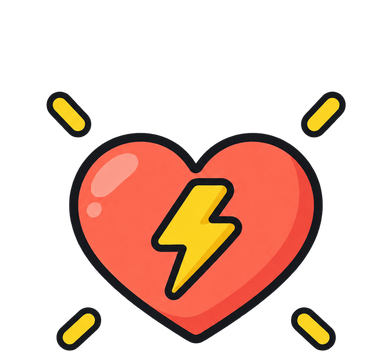
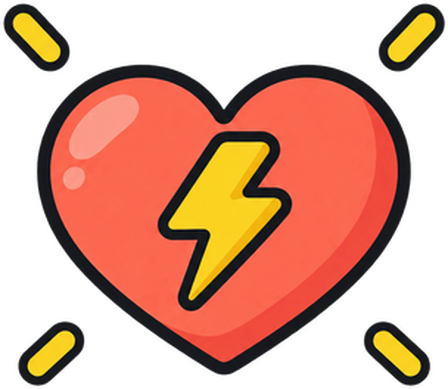
fix: heart centring, logarithmic sliders, and a board you can read
**The heart sat low with a stray spark above it.** Trimming to the full bounding
box included the faint spark tips, which sit mostly above the heart, so the solid
mass ended up at 63% down the frame. Re-centred on the SOLID mass instead, and
enlarged: the ring went 132 to 168 and the art 96 to 130, because there was dead
space above it and that mark is the point of the screen.

**Only one slider felt right, and the reason is that resistance is
ratiometric.** Doubling matters the same amount at 500 ohms as at 50k, so a
linear track over a 100x range spends almost all its travel where nothing
visible changes. On the divider, linear moved the midpoint 1.38V across the last
three quarters of the track; logarithmic moves it 3.45V, and the useful values
are spread evenly instead of crammed into the first fifth. All five controls are
resistances, so all five are log now.

**The breadboard could not be read.** Row letters and column numbers were painted
at 0x5c6068 and roughly the size a real board prints them, which works at 30cm
with two eyes and does not work as a handful of texels on a surface seen at an
angle on a phone. Near-black now, and half again larger, along with the rail
polarity marks. There was no way to tell which lane you were placing into.

Claude-Session: https://claude.ai/code/session_01VktW16TST1KkgfptudESST

diff --git a/mobile/src/sim/circuits.ts b/mobile/src/sim/circuits.ts
@@ -14,6 +14,13 @@ import type { Comp } from './engine';
 
 export interface LiveControl {
   label: string;
+  /**
+   * How travel maps to value. Resistance is ratiometric, so LOG is the honest
+   * default: doubling matters the same amount whether you are at 500 ohms or
+   * 50k. Mapped linearly, a 500 to 47k divider put every useful value in the
+   * first fifth of the track and left the rest doing nothing you could see.
+   */
+  scale?: 'linear' | 'log';
   /** Displayed after the value. */
   unit: string;
   min: number;
@@ -51,7 +58,7 @@ export const LIVE_CIRCUITS: LiveCircuitDef[] = [
     title: 'LED with a series resistor',
     blurb: 'One loop: a 9V battery, a resistor, an LED.',
     prompt: 'Turn the resistor up and watch the current fall. Below about 220 ohms the LED is being pushed past what it can take.',
-    control: { label: 'Resistor', unit: 'Ω', min: 47, max: 4700, step: 1, initial: 220, format: ohms },
+    control: { label: 'Resistor', unit: 'Ω', min: 47, max: 4700, step: 1, initial: 220, scale: 'log', format: ohms },
     build: (r) => [
       { kind: 'V', id: 'bat', pos: 1, neg: 0, value: 9 },
       { kind: 'R', id: 'r1', a: 1, b: 2, value: r },
@@ -69,7 +76,7 @@ export const LIVE_CIRCUITS: LiveCircuitDef[] = [
     title: 'Voltage divider',
     blurb: 'Two resistors across 5V. The midpoint is what a sensor pin reads.',
     prompt: 'This is how every analog sensor works. Move the lower resistor and watch the midpoint move with it.',
-    control: { label: 'Lower resistor', unit: 'Ω', min: 500, max: 47000, step: 100, initial: 10000, format: ohms },
+    control: { label: 'Lower resistor', unit: 'Ω', min: 500, max: 47000, step: 10, initial: 10000, scale: 'log', format: ohms },
     build: (r2) => [
       { kind: 'V', id: 'src', pos: 1, neg: 0, value: 5 },
       { kind: 'R', id: 'r1', a: 1, b: 2, value: 10000 },
@@ -86,7 +93,7 @@ export const LIVE_CIRCUITS: LiveCircuitDef[] = [
     title: 'Two branches in parallel',
     blurb: 'Same voltage across both. The smaller resistor takes the bigger share.',
     prompt: 'Change one branch and watch the other stay exactly where it was. That independence is what parallel means.',
-    control: { label: 'Second branch', unit: 'Ω', min: 220, max: 10000, step: 10, initial: 2000, format: ohms },
+    control: { label: 'Second branch', unit: 'Ω', min: 220, max: 10000, step: 10, initial: 2000, scale: 'log', format: ohms },
     build: (r2) => [
       { kind: 'V', id: 'src', pos: 1, neg: 0, value: 9 },
       { kind: 'R', id: 'r1', a: 1, b: 0, value: 1000 },
@@ -103,7 +110,7 @@ export const LIVE_CIRCUITS: LiveCircuitDef[] = [
     title: 'RC charging',
     blurb: 'A capacitor filling through a resistor. This is where time comes from.',
     prompt: 'Watch the voltage climb, fast at first and then slower. Raise the resistor and the whole thing stretches out.',
-    control: { label: 'Resistor', unit: 'Ω', min: 1000, max: 100000, step: 1000, initial: 10000, format: ohms },
+    control: { label: 'Resistor', unit: 'Ω', min: 1000, max: 100000, step: 10, initial: 10000, scale: 'log', format: ohms },
     build: (r) => [
       { kind: 'V', id: 'src', pos: 1, neg: 0, value: 5 },
       { kind: 'R', id: 'r', a: 1, b: 2, value: r },
@@ -121,7 +128,7 @@ export const LIVE_CIRCUITS: LiveCircuitDef[] = [
     title: 'Transistor as a switch',
     blurb: 'A small base current lets a much larger one through the LED.',
     prompt: 'Raise the base resistor until the transistor stops saturating. The LED does not dim gently, it gives up.',
-    control: { label: 'Base resistor', unit: 'Ω', min: 1000, max: 470000, step: 1000, initial: 10000, format: ohms },
+    control: { label: 'Base resistor', unit: 'Ω', min: 1000, max: 470000, step: 10, initial: 10000, scale: 'log', format: ohms },
     build: (rb) => [
       { kind: 'V', id: 'vcc', pos: 1, neg: 0, value: 5 },
       { kind: 'V', id: 'sig', pos: 4, neg: 0, value: 5 },

diff --git a/mobile/src/components/sandbox3d/geometry/breadboard.ts b/mobile/src/components/sandbox3d/geometry/breadboard.ts
@@ -42,7 +42,12 @@ const GROOVE_DARK: Rgba = rgb(0xc9c6bd);
 // would land.
 const HOLE_RING: Rgba = rgb(0x6f6d66);
 const HOLE_DARK: Rgba = rgb(0x25272b);
-const PRINT: Rgba = rgb(0x5c6068);
+// Near-black, and the labels below are half again larger than a real board's.
+// A physical breadboard prints its row letters at about 2mm and you read them
+// from 30cm with both eyes. Here they are a handful of texels on a surface seen
+// at an angle on a phone, and at 0x5c6068 they were not legible at all: there
+// was no way to tell which lane you were placing into.
+const PRINT: Rgba = rgb(0x2b2f36);
 const RED_LINE: Rgba = rgb(0xd6402f);
 const BLUE_LINE: Rgba = rgb(0x2f6fd0);
 
@@ -77,7 +82,7 @@ export function paintBreadboard(): THREE.DataTexture {
     const z = railStripeZ(rail.id);
     p.rect(0, z, TOP_W - 0.34, 0.012, colour);
     for (const end of [-1, 1]) {
-      p.text(rail.polarity, end * (TOP_W / 2 - 0.09), rail.z, 0.075, colour);
+      p.text(rail.polarity, end * (TOP_W / 2 - 0.095), rail.z, 0.105, colour);
     }
   }
 
@@ -103,8 +108,8 @@ export function paintBreadboard(): THREE.DataTexture {
     const label = String(printed);
     // Between row a and the rail's printed line, which is where a real board
     // puts them. Any further out and they collide with the rail stripe.
-    p.text(label, columnX(col), rowZ(0) - 0.062, 0.055, PRINT);
-    p.text(label, columnX(col), rowZ(ROWS - 1) + 0.062, 0.055, PRINT);
+    p.text(label, columnX(col), rowZ(0) - 0.068, 0.078, PRINT);
+    p.text(label, columnX(col), rowZ(ROWS - 1) + 0.068, 0.078, PRINT);
   }
 
   // Row letters at both ends.
@@ -112,8 +117,8 @@ export function paintBreadboard(): THREE.DataTexture {
     const letter = ROW_LETTERS[row];
     // Hard against the edge, because the 63 columns leave only 0.15 inch of
     // margin and that is exactly how tight it is on the real board too.
-    p.text(letter, -TOP_W / 2 + 0.045, rowZ(row), 0.046, PRINT);
-    p.text(letter, TOP_W / 2 - 0.045, rowZ(row), 0.046, PRINT);
+    p.text(letter, -TOP_W / 2 + 0.050, rowZ(row), 0.068, PRINT);
+    p.text(letter, TOP_W / 2 - 0.050, rowZ(row), 0.068, PRINT);
   }
 
   return p.texture();

diff --git a/mobile/src/components/sim/CircuitTab.tsx b/mobile/src/components/sim/CircuitTab.tsx
@@ -26,8 +26,9 @@ import { elevation } from '../../theme/elevation';
  */
 const Knob: React.FC<{
   min: number; max: number; step: number; value: number;
+  scale: 'linear' | 'log';
   onChange: (v: number) => void;
-}> = ({ min, max, step, value, onChange }) => {
+}> = ({ min, max, step, value, scale, onChange }) => {
   // Refusing the responder is not enough: UIScrollView competes below the JS
   // responder system, so the page scrolled while the knob also moved.
   const { setLocked } = useScrollLock();
@@ -55,7 +56,9 @@ const Knob: React.FC<{
   const setFromX = (pageX: number) => {
     if (width.current <= 0) return;
     const frac = Math.min(1, Math.max(0, (pageX - originX.current) / width.current));
-    const raw = min + frac * (max - min);
+    const raw = scale === 'log'
+      ? Math.exp(Math.log(min) + frac * (Math.log(max) - Math.log(min)))
+      : min + frac * (max - min);
     const snapped = Math.round(raw / step) * step;
     const clamped = Math.min(max, Math.max(min, snapped));
     if (clamped !== latest.current) onChange(clamped);
@@ -79,7 +82,11 @@ const Knob: React.FC<{
     }),
   ).current;
 
-  const frac = (value - min) / (max - min);
+  // The thumb has to sit where the same maths would put it, or it drifts away
+  // from the finger on a log track.
+  const frac = scale === 'log'
+    ? (Math.log(value) - Math.log(min)) / (Math.log(max) - Math.log(min))
+    : (value - min) / (max - min);
   return (
     <View
       ref={trackRef}
@@ -185,6 +192,7 @@ export const CircuitTab: React.FC = () => {
           min={picked.control.min}
           max={picked.control.max}
           step={picked.control.step}
+          scale={picked.control.scale ?? 'linear'}
           value={value}
           onChange={setValue}
         />

diff --git a/mobile/src/components/OutOfHearts.tsx b/mobile/src/components/OutOfHearts.tsx
@@ -27,8 +27,8 @@ import { motion } from '../theme/motion';
  * be worth an animation loop running for an hour and a half.
  */
 
-const RING = 132;
-const STROKE = 10;
+const RING = 168;
+const STROKE = 12;
 const R = (RING - STROKE) / 2;
 const C = 2 * Math.PI * R;
 
@@ -163,7 +163,10 @@ const s = StyleSheet.create({
   // Sized against the ring's 112pt interior (132 outer minus the 10pt stroke
   // each side), checked by rendering it inside the real ring rather than
   // guessing from the numbers.
-  refilledArt: { width: 96, height: 88 },
+  // Sized to the ring's interior (RING minus the stroke on each side), and
+  // centred on the heart's SOLID mass rather than its bounding box, which the
+  // sparks skewed upward.
+  refilledArt: { width: 130, height: 113 },
   // Drained rather than hidden. Enough colour left to read as a heart, little
   // enough that the moment it fills is unmistakable.
   refilledArtWaiting: { opacity: 0.3 },
